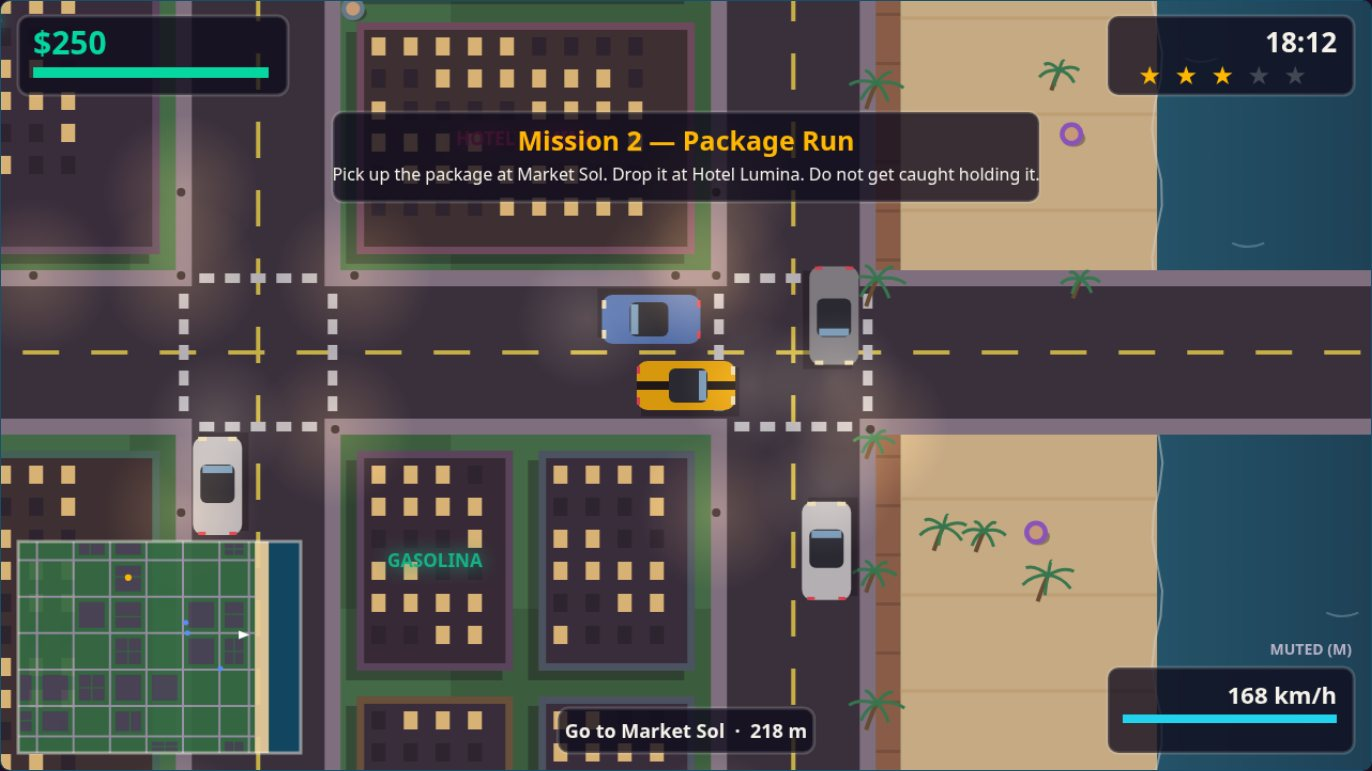
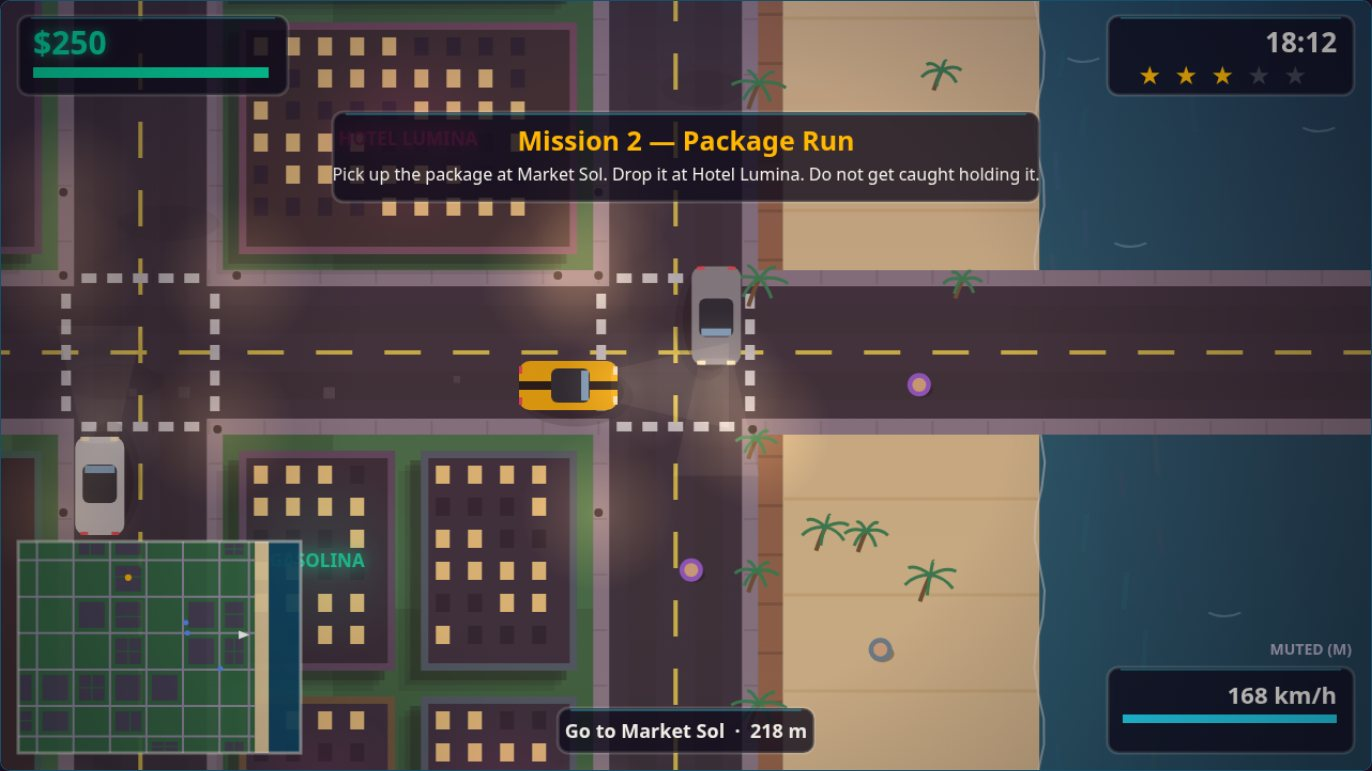
NEON BAY visual pass (render): smooth lookahead camera + shake, soft layered shadows, road wear + sidewalk seams, neon water reflections, headlight cones, sign glows, dusk gradient, vignette, poster title, polished HUD

diff --git a/game/src/render.js b/game/src/render.js
@@ -33,6 +33,38 @@ export function createRenderer(canvas) {
   const ctx = canvas.getContext('2d');
   let minimapBase = null;
   let minimapCity = null;
+  // Smooth camera state: the view glides after the player with a touch of
+  // lookahead in the direction of travel, instead of locking rigidly on.
+  let smoothCam = null;
+  let vignette = null;
+
+  function currentCamera(world) {
+    const base = cameraFor(world);
+    const p = world.player;
+    let lx = 0, ly = 0;
+    if (p.car) {
+      const lead = Math.min(110, Math.abs(p.car.speed) * 0.24);
+      lx = Math.cos(p.car.angle) * lead * Math.sign(p.car.speed || 1);
+      ly = Math.sin(p.car.angle) * lead * Math.sign(p.car.speed || 1);
+    } else {
+      lx = Math.cos(p.angle) * 26;
+      ly = Math.sin(p.angle) * 26;
+    }
+    const target = {
+      x: clamp(base.x + lx, 0, Math.max(0, WORLD.width - VIEW.width)),
+      y: clamp(base.y + ly, 0, Math.max(0, WORLD.height - VIEW.height)),
+    };
+    if (!smoothCam) smoothCam = { ...target };
+    else {
+      smoothCam.x += (target.x - smoothCam.x) * 0.13;
+      smoothCam.y += (target.y - smoothCam.y) * 0.13;
+    }
+    const shake = world.shake || 0;
+    return {
+      x: smoothCam.x + (shake ? (Math.random() * 2 - 1) * shake : 0),
+      y: smoothCam.y + (shake ? (Math.random() * 2 - 1) * shake : 0),
+    };
+  }
 
   function buildMinimap(city) {
     const w = 264, h = 198;
@@ -117,6 +149,25 @@ export function createRenderer(canvas) {
       if (y === 0) ctx.moveTo(fx, y); else ctx.lineTo(fx, y);
     }
     ctx.stroke();
+    // Neon reflections: as the light drops, the shore signs smear down the
+    // water in shimmering columns — the bay's signature postcard detail.
+    if (light.dark > 0.18) {
+      const neon = ['#ff2e88', '#22d3ee', '#ffb703', '#06d6a0', '#c77dff', '#ff7b54'];
+      ctx.lineWidth = 5;
+      for (let i = 0; i < 26; i += 1) {
+        const wy = ((i * 149 + Math.floor(cam.y)) % (VIEW.height + 120)) - 60;
+        const wob = Math.sin(t * 2.2 + i * 1.7) * 7;
+        const wx = WORLD.waterX - cam.x + 16 + (i % 5) * 30 + wob;
+        if (wx > VIEW.width + 30) continue;
+        ctx.strokeStyle = neon[i % neon.length];
+        ctx.globalAlpha = light.dark * (0.10 + 0.07 * (0.5 + 0.5 * Math.sin(t * 3 + i * 2.3)));
+        ctx.beginPath();
+        ctx.moveTo(wx, wy);
+        ctx.lineTo(wx + Math.sin(t * 2.6 + i) * 5, wy + 26 + (i % 3) * 10);
+        ctx.stroke();
+      }
+      ctx.globalAlpha = 1;
+    }
 
     // Parks and plazas.
     for (const p of city.parks) {
@@ -155,6 +206,47 @@ export function createRenderer(canvas) {
     ctx.fillStyle = PALETTE.asphalt;
     for (const r of city.roadsV) ctx.fillRect(r.x - half - cam.x, 0, ROADS.width, VIEW.height);
     for (const r of city.roadsH) ctx.fillRect(0, r.y - half - cam.y, VIEW.width, ROADS.width);
+    // Tyre-worn dark streaks down each lane and seams across the sidewalks:
+    // the cheap details that stop a road reading as a flat grey ribbon.
+    ctx.fillStyle = 'rgba(0,0,0,0.055)';
+    for (const r of city.roadsV) {
+      ctx.fillRect(r.x - ROADS.laneOffset - 13 - cam.x, 0, 26, VIEW.height);
+      ctx.fillRect(r.x + ROADS.laneOffset - 13 - cam.x, 0, 26, VIEW.height);
+    }
+    for (const r of city.roadsH) {
+      ctx.fillRect(0, r.y - ROADS.laneOffset - 13 - cam.y, VIEW.width, 26);
+      ctx.fillRect(0, r.y + ROADS.laneOffset - 13 - cam.y, VIEW.width, 26);
+    }
+    ctx.strokeStyle = 'rgba(0,0,0,0.10)';
+    ctx.lineWidth = 2;
+    for (const r of city.roadsV) {
+      for (let y = -(cam.y % 52); y < VIEW.height; y += 52) {
+        ctx.beginPath();
+        ctx.moveTo(r.x - half - 15 - cam.x, y); ctx.lineTo(r.x - half - 2 - cam.x, y);
+        ctx.moveTo(r.x + half + 2 - cam.x, y); ctx.lineTo(r.x + half + 15 - cam.x, y);
+        ctx.stroke();
+      }
+    }
+    for (const r of city.roadsH) {
+      for (let x = -(cam.x % 52); x < VIEW.width; x += 52) {
+        ctx.beginPath();
+        ctx.moveTo(x, r.y - half - 15 - cam.y); ctx.lineTo(x, r.y - half - 2 - cam.y);
+        ctx.moveTo(x, r.y + half + 2 - cam.y); ctx.lineTo(x, r.y + half + 15 - cam.y);
+        ctx.stroke();
+      }
+    }
+    // Worn patches and old repairs on the asphalt, placed deterministically.
+    ctx.fillStyle = 'rgba(0,0,0,0.07)';
+    for (let i = 0; i < city.roadsV.length; i += 1) {
+      const r = city.roadsV[i];
+      for (let k = 0; k < 7; k += 1) {
+        const py = ((i * 613 + k * 887) % 3400) - cam.y;
+        if (py < -60 || py > VIEW.height + 60) continue;
+        ctx.beginPath();
+        ctx.ellipse(r.x + ((k % 3) - 1) * 26 - cam.x, py, 30 + (k % 4) * 9, 17, 0, 0, Math.PI * 2);
+        ctx.fill();
+      }
+    }
     ctx.fillStyle = PALETTE.laneMark;
     for (const r of city.roadsV) {
       for (let y = -(cam.y % 64); y < VIEW.height; y += 64) ctx.fillRect(r.x - 2 - cam.x, y, 4, 34);
@@ -179,7 +271,13 @@ export function createRenderer(canvas) {
     for (const b of city.buildings) {
       if (!inView(b.x + b.w / 2, b.y + b.h / 2, Math.max(b.w, b.h))) continue;
       const x = b.x - cam.x, y = b.y - cam.y;
-      ctx.fillStyle = 'rgba(10,10,20,0.35)';
+      // Layered soft shadow: three passes, growing and fading, read as blur
+      // without paying for a canvas shadow pass per building.
+      ctx.fillStyle = 'rgba(10,10,20,0.10)';
+      ctx.fillRect(x + shX * 2.1, y + shY * 2.1, b.w, b.h);
+      ctx.fillStyle = 'rgba(10,10,20,0.16)';
+      ctx.fillRect(x + shX * 1.5, y + shY * 1.5, b.w, b.h);
+      ctx.fillStyle = 'rgba(10,10,20,0.30)';
       ctx.fillRect(x + shX, y + shY, b.w, b.h);
       ctx.fillStyle = b.wall;
       ctx.fillRect(x, y, b.w, b.h);
@@ -252,8 +350,11 @@ export function createRenderer(canvas) {
     ctx.save();
     ctx.translate(x, y);
     ctx.rotate(car.angle);
-    ctx.fillStyle = 'rgba(8,8,16,0.4)';
-    ctx.fillRect(-CAR.length / 2 + 4, -CAR.width / 2 + 6, CAR.length, CAR.width);
+    // Soft two-pass shadow so the car sits on the road instead of pasted on.
+    ctx.fillStyle = 'rgba(8,8,16,0.16)';
+    ctx.beginPath(); ctx.ellipse(7, 10, CAR.length * 0.58, CAR.width * 0.62, 0, 0, Math.PI * 2); ctx.fill();
+    ctx.fillStyle = 'rgba(8,8,16,0.32)';
+    ctx.beginPath(); ctx.ellipse(4, 6, CAR.length * 0.52, CAR.width * 0.55, 0, 0, Math.PI * 2); ctx.fill();
     const wrecked = car.health <= 0;
     ctx.fillStyle = wrecked ? '#3c3c44' : car.color;
     roundRect(-CAR.length / 2, -CAR.width / 2, CAR.length, CAR.width, 10);
@@ -327,6 +428,18 @@ export function createRenderer(canvas) {
 
   function drawActors(world, cam, light) {
     const t = world.elapsed;
+    // Skid marks lie on the ground under everything that moves.
+    for (const s of world.skids) {
+      const x = s.x - cam.x, y = s.y - cam.y;
+      if (x < -20 || x > VIEW.width + 20 || y < -20 || y > VIEW.height + 20) continue;
+      const fade = clamp(s.ttl / s.maxT, 0, 1);
+      ctx.save();
+      ctx.translate(x, y);
+      ctx.rotate(s.angle);
+      ctx.fillStyle = s.sand ? `rgba(146,118,74,${0.4 * fade})` : `rgba(12,12,16,${0.42 * fade})`;
+      ctx.fillRect(-7, -2.5, 14, 5);
+      ctx.restore();
+    }
     // Pickups first, under everything alive.
     for (const pk of world.pickups) {
       const x = pk.x - cam.x, y = pk.y - cam.y + Math.sin(pk.bob) * 3;
@@ -383,6 +496,25 @@ export function createRenderer(canvas) {
       }
       drawPerson(p.x - cam.x, p.y - cam.y, p.angle, PALETTE.player, { gun: p.hasGun, cap: '#111' });
     }
+    // Muzzle flash: a brief star at the barrel, gone in two frames.
+    if (world.muzzle) {
+      const m = world.muzzle;
+      const x = m.x - cam.x, y = m.y - cam.y;
+      ctx.save();
+      ctx.translate(x, y);
+      ctx.rotate(m.angle);
+      ctx.globalAlpha = clamp(m.ttl / m.maxT, 0, 1);
+      ctx.shadowColor = '#ffd166';
+      ctx.shadowBlur = 14;
+      ctx.fillStyle = '#ffe9a8';
+      ctx.beginPath();
+      ctx.moveTo(26, 0); ctx.lineTo(8, -6); ctx.lineTo(12, 0); ctx.lineTo(8, 6);
+      ctx.closePath(); ctx.fill();
+      ctx.fillStyle = '#ffb703';
+      ctx.beginPath(); ctx.arc(6, 0, 5, 0, Math.PI * 2); ctx.fill();
+      ctx.restore();
+      ctx.globalAlpha = 1;
+    }
     // Tracers and particles.
     for (const tr of world.tracers) {
       ctx.strokeStyle = tr.hostile ? 'rgba(255,90,90,0.9)' : 'rgba(255,240,180,0.95)';
@@ -403,6 +535,15 @@ export function createRenderer(canvas) {
   }
 
   function drawLighting(world, cam, light) {
+    // Dusk gradient: violet up top melting into warm amber near the ground.
+    if (light.warm > 0.03) {
+      const grad = ctx.createLinearGradient(0, 0, 0, VIEW.height);
+      grad.addColorStop(0, `rgba(58,30,96,${light.warm * 0.20})`);
+      grad.addColorStop(0.55, `rgba(255,110,64,${light.warm * 0.10})`);
+      grad.addColorStop(1, `rgba(255,170,80,${light.warm * 0.05})`);
+      ctx.fillStyle = grad;
+      ctx.fillRect(0, 0, VIEW.width, VIEW.height);
+    }
     if (light.dark > 0.04) {
       ctx.fillStyle = `rgba(10,12,44,${light.dark * 0.52})`;
       ctx.fillRect(0, 0, VIEW.width, VIEW.height);
@@ -423,10 +564,34 @@ export function createRenderer(canvas) {
       ctx.fillRect(x - r, y - r, r * 2, r * 2);
     };
     for (const lamp of world.city.lamps) glow(lamp.x - cam.x, lamp.y - cam.y, 74, 'rgba(255,196,110,A)', 0.16);
+    // Neon signs bleed their colour onto the street around them.
+    for (const b of world.city.buildings) {
+      if (!b.sign) continue;
+      const bx = b.x + b.w / 2 - cam.x, by = b.y + b.h / 2 - cam.y;
+      if (bx < -90 || bx > VIEW.width + 90 || by < -90 || by > VIEW.height + 90) continue;
+      const hex = b.sign.color;
+      const r = parseInt(hex.slice(1, 3), 16), gcol = parseInt(hex.slice(3, 5), 16), bl = parseInt(hex.slice(5, 7), 16);
+      glow(bx, by, 96, `rgba(${r},${gcol},${bl},A)`, 0.10);
+    }
     for (const car of world.cars) {
       const hx = car.x + Math.cos(car.angle) * 60 - cam.x;
       const hy = car.y + Math.sin(car.angle) * 60 - cam.y;
       glow(hx, hy, 66, 'rgba(255,240,190,A)', 0.13);
+      // A proper headlight cone thrown ahead of every moving car.
+      const cxp = car.x - cam.x, cyp = car.y - cam.y;
+      if (cxp > -180 && cxp < VIEW.width + 180 && cyp > -180 && cyp < VIEW.height + 180) {
+        const fx = Math.cos(car.angle), fy = Math.sin(car.angle);
+        const rx = -fy, ry = fx;
+        const tipX = cxp + fx * 150, tipY = cyp + fy * 150;
+        ctx.fillStyle = 'rgba(255,240,190,0.045)';
+        ctx.beginPath();
+        ctx.moveTo(cxp + fx * 40 + rx * 15, cyp + fy * 40 + ry * 15);
+        ctx.lineTo(tipX + rx * 40, tipY + ry * 40);
+        ctx.lineTo(tipX - rx * 40, tipY - ry * 40);
+        ctx.lineTo(cxp + fx * 40 - rx * 15, cyp + fy * 40 - ry * 15);
+        ctx.closePath();
+        ctx.fill();
+      }
       if (car.kind === 'police' && car.driver !== null) {
         glow(car.x - cam.x, car.y - cam.y, 90, Math.floor(world.elapsed * 6) % 2 ? 'rgba(255,51,85,A)' : 'rgba(51,85,255,A)', 0.2);
       }
@@ -474,16 +639,24 @@ export function createRenderer(canvas) {
     ctx.fill();
     ctx.strokeStyle = 'rgba(245,242,234,0.18)';
     ctx.stroke();
+    // A hairline of neon along the top edge: the modern-HUD tell.
+    ctx.fillStyle = 'rgba(34,211,238,0.35)';
+    ctx.fillRect(x + 12, y + 1, w - 24, 2);
   }
 
+  let hudCam = null;
   function drawHUD(world, opts) {
     const p = world.player;
     // Money + health, top left.
     panel(16, 14, 252, 74);
+    ctx.save();
+    ctx.shadowColor = 'rgba(6,214,160,0.55)';
+    ctx.shadowBlur = 9;
     ctx.fillStyle = PALETTE.good;
     ctx.font = `bold 30px ${FONT}`;
     ctx.textAlign = 'left';
     ctx.fillText(`$${world.money.toLocaleString('en-US')}`, 30, 50);
+    ctx.restore();
     ctx.fillStyle = 'rgba(245,242,234,0.25)';
     ctx.fillRect(30, 62, 220, 10);
     const hpFrac = clamp(p.health / 100, 0, 1);
@@ -552,7 +725,7 @@ export function createRenderer(canvas) {
       const d = Math.hypot(target.x - p.x, target.y - p.y);
       if (d > 340) {
         const a = Math.atan2(target.y - p.y, target.x - p.x);
-        const cam = cameraFor(world);
+        const cam = hudCam || cameraFor(world);
         const cx = p.x - cam.x + Math.cos(a) * 52;
         const cy = p.y - cam.y + Math.sin(a) * 52;
         ctx.save();
@@ -597,25 +770,60 @@ export function createRenderer(canvas) {
 
   function drawTitle(world, opts) {
     const grad = ctx.createLinearGradient(0, 0, 0, VIEW.height);
-    grad.addColorStop(0, 'rgba(10,6,26,0.55)');
-    grad.addColorStop(0.55, 'rgba(10,6,26,0.25)');
-    grad.addColorStop(1, 'rgba(10,6,26,0.72)');
+    grad.addColorStop(0, 'rgba(24,8,44,0.62)');
+    grad.addColorStop(0.5, 'rgba(64,20,60,0.28)');
+    grad.addColorStop(1, 'rgba(10,6,26,0.74)');
     ctx.fillStyle = grad;
     ctx.fillRect(0, 0, VIEW.width, VIEW.height);
+    // Poster sun: a striped setting sun hanging over the bay behind the logo.
+    ctx.save();
+    const sunX = VIEW.width / 2, sunY = 252, sunR = 148;
+    const sunGrad = ctx.createLinearGradient(0, sunY - sunR, 0, sunY + sunR);
+    sunGrad.addColorStop(0, 'rgba(255,183,3,0.55)');
+    sunGrad.addColorStop(0.6, 'rgba(255,46,136,0.45)');
+    sunGrad.addColorStop(1, 'rgba(199,125,255,0.35)');
+    ctx.fillStyle = sunGrad;
+    ctx.beginPath(); ctx.arc(sunX, sunY, sunR, 0, Math.PI * 2); ctx.fill();
+    // Retro stripes cut across the lower sun (painted in the overlay's tone,
+    // clipped to the disc so the city behind is never touched).
+    ctx.clip();
+    ctx.fillStyle = 'rgba(18,8,32,0.6)';
+    for (let i = 0; i < 5; i += 1) {
+      ctx.fillRect(sunX - sunR, sunY + 18 + i * 26, sunR * 2, 5 + i * 2);
+    }
+    ctx.restore();
+    // Poster frame.
+    ctx.strokeStyle = 'rgba(255,46,136,0.5)';
+    ctx.lineWidth = 2;
+    ctx.strokeRect(14, 14, VIEW.width - 28, VIEW.height - 28);
+    ctx.strokeStyle = 'rgba(34,211,238,0.4)';
+    ctx.strokeRect(20, 20, VIEW.width - 40, VIEW.height - 40);
     ctx.textAlign = 'center';
     ctx.save();
+    ctx.font = `96px ${TITLE_FONT}`;
     ctx.shadowColor = PALETTE.neonPink;
-    ctx.shadowBlur = 34;
+    ctx.shadowBlur = 48;
     ctx.fillStyle = PALETTE.neonPink;
-    ctx.font = `92px ${TITLE_FONT}`;
+    ctx.fillText('NEON', VIEW.width / 2, 208);
+    ctx.shadowBlur = 20;
     ctx.fillText('NEON', VIEW.width / 2, 208);
     ctx.shadowColor = PALETTE.neonCyan;
+    ctx.shadowBlur = 48;
     ctx.fillStyle = PALETTE.neonCyan;
-    ctx.fillText('BAY', VIEW.width / 2, 302);
+    ctx.fillText('BAY', VIEW.width / 2, 304);
+    ctx.shadowBlur = 20;
+    ctx.fillText('BAY', VIEW.width / 2, 304);
     ctx.restore();
+    // Neon underline sweeping pink into cyan.
+    const bar = ctx.createLinearGradient(VIEW.width / 2 - 210, 0, VIEW.width / 2 + 210, 0);
+    bar.addColorStop(0, PALETTE.neonPink);
+    bar.addColorStop(0.5, PALETTE.neonGold);
+    bar.addColorStop(1, PALETTE.neonCyan);
+    ctx.fillStyle = bar;
+    ctx.fillRect(VIEW.width / 2 - 210, 322, 420, 4);
     ctx.fillStyle = PALETTE.text;
     ctx.font = `21px ${FONT}`;
-    ctx.fillText('A top-down crime story on a neon beach — steal the coupe, run the package, take the bank.', VIEW.width / 2, 348);
+    ctx.fillText('A top-down crime story on a neon beach — steal the coupe, run the package, take the bank.', VIEW.width / 2, 356);
     panel(VIEW.width / 2 - 300, 392, 600, 176);
     ctx.fillStyle = PALETTE.text;
     ctx.font = `18px ${FONT}`;
@@ -669,15 +877,27 @@ export function createRenderer(canvas) {
   }
 
   function render(world, screen, opts = {}) {
-    const cam = cameraFor(world);
+    const cam = currentCamera(world);
     const light = lightModel(world.timeHours);
     drawWorld(world, cam, light);
     drawActors(world, cam, light);
     drawLighting(world, cam, light);
     if (screen === 'title') {
       drawTitle(world, opts);
+      // The vignette still applies over the title's living backdrop.
+      if (!vignette) {
+        vignette = ctx.createRadialGradient(
+          VIEW.width / 2, VIEW.height / 2, VIEW.height * 0.42,
+          VIEW.width / 2, VIEW.height / 2, VIEW.height * 0.95,
+        );
+        vignette.addColorStop(0, 'rgba(5,4,14,0)');
+        vignette.addColorStop(1, 'rgba(5,4,14,0.34)');
+      }
+      ctx.fillStyle = vignette;
+      ctx.fillRect(0, 0, VIEW.width, VIEW.height);
       return;
     }
+    hudCam = cam;
     drawHUD(world, opts);
     // Aim reticle.
     if (!world.player.car && opts.pointer) {
@@ -704,7 +924,18 @@ export function createRenderer(canvas) {
     }
     if (world.fate) drawFate(world);
     if (screen === 'paused') drawPause();
+    // A permanent soft vignette: cheap, and it makes every frame feel graded.
+    if (!vignette) {
+      vignette = ctx.createRadialGradient(
+        VIEW.width / 2, VIEW.height / 2, VIEW.height * 0.42,
+        VIEW.width / 2, VIEW.height / 2, VIEW.height * 0.95,
+      );
+      vignette.addColorStop(0, 'rgba(5,4,14,0)');
+      vignette.addColorStop(1, 'rgba(5,4,14,0.34)');
+    }
+    ctx.fillStyle = vignette;
+    ctx.fillRect(0, 0, VIEW.width, VIEW.height);
   }
 
-  return { render };
+  return { render, getCamera: () => smoothCam || { x: 0, y: 0 } };
 }

diff --git a/game/src/main.js b/game/src/main.js
@@ -84,7 +84,9 @@ window.addEventListener('keydown', (event) => {
 });
 
 function controlsForPlayer() {
-  const cam = cameraFor(world);
+  // Aim through the renderer's smoothed camera so the crosshair and the
+  // player's gun always agree about where the pointer is in the world.
+  const cam = renderer.getCamera() || cameraFor(world);
   const aimAngle = Math.atan2(
     cam.y + input.pointer.y - world.player.y,
     cam.x + input.pointer.x - world.player.x,
